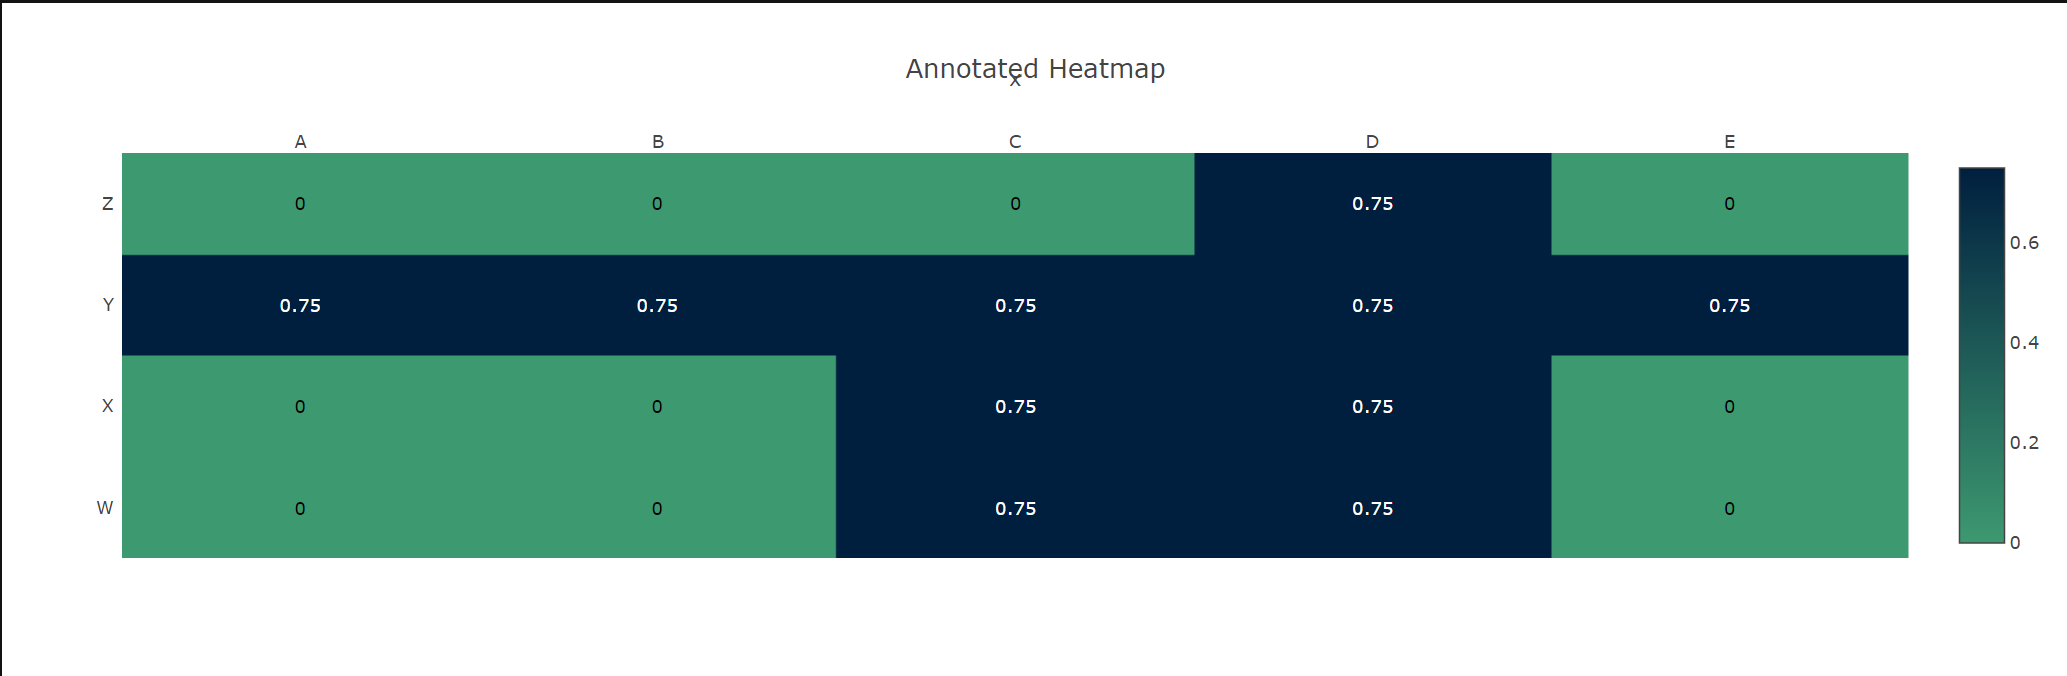
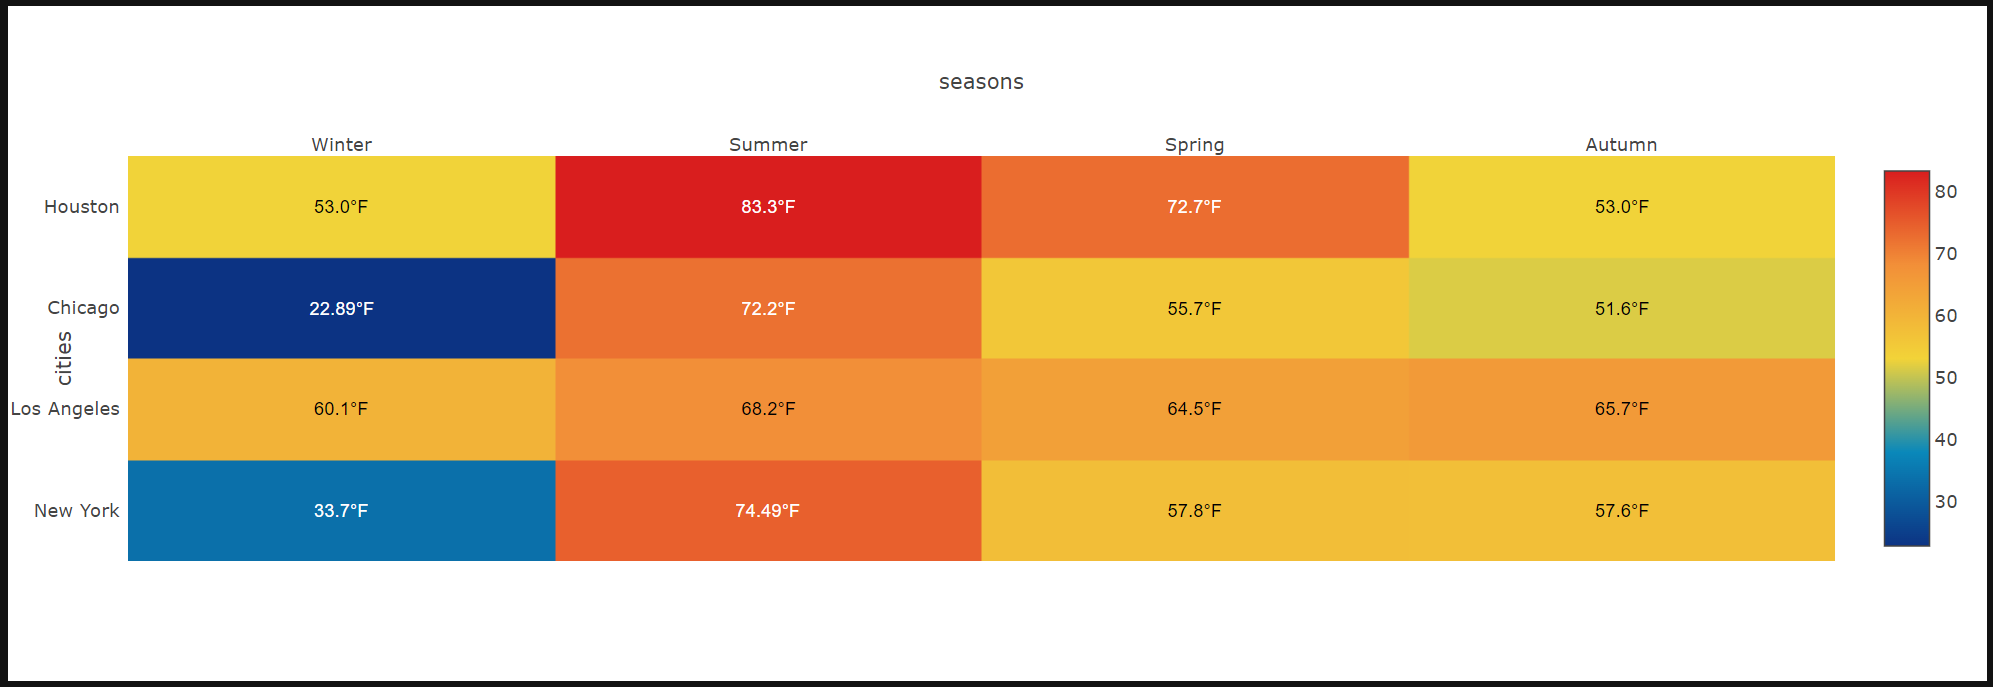
Update examples with definition, add Heatmap with Unequal Block Sizes

diff --git a/docs/manuals/gui/viselements/charts/heatmap.md b/docs/manuals/gui/viselements/charts/heatmap.md
@@ -10,16 +10,18 @@ A heatmap depicts values for a main variable of interest across two axis variabl
 - And more
 
 ### Basic Heatmap
+The chart below shows the colors in accordance with each temperatures
+
 ```py
 from taipy.gui import Gui
 
 data = {
-    "z": [[1, 20, 30], [20, 1, 60], [30, 60, 1]],
-  }
-
+    "temperature": [[1, 20, 30], [20, 1, 60], [30, 60, 1]],
+}
+options = {'colorscale': 'Reds'}
 md = """
 ## Basic Heatmap
-<|{data}|chart|z=z|type=heatmap|>
+<|{data}|chart|z=temperature|type=heatmap|options={options}|>
 """
 
 Gui(md).run()
@@ -27,13 +29,14 @@ Gui(md).run()
 ![Basic Heatmap](heatmap_basic.png)
 
 ### Heatmap with Categorical Axis Labels
+In the following example, we have an array which defines the data (harvest by different farmers in tons/year) to color code. We then also need two lists of names of farmers and vegetables cultivated by them.
 ```py
 from taipy.gui import Gui
 import pandas as pd
 
 data = [
     pd.DataFrame({
-        'z': [
+        'harvest': [
             [0.8, 2.4, 2.5, 3.9, 0.0, 4.0, 0.0],
             [2.4, 0.0, 4.0, 1.0, 2.7, 0.0, 0.0],
             [1.1, 2.4, 0.8, 4.3, 1.9, 4.4, 0.0],
@@ -42,30 +45,28 @@ data = [
             [1.3, 1.2, 0.0, 0.0, 0.0, 3.2, 5.1],
             [0.1, 2.0, 0.0, 1.4, 0.0, 1.9, 6.3]
         ],
-        'y': ["cucumber",
-              "tomato",
-              "lettuce",
-              "asparagus",
-              "potato",
-              "wheat",
-              "barley"]
+        'vegetables': ["cucumber",
+                       "tomato",
+                       "lettuce",
+                       "asparagus",
+                       "potato",
+                       "wheat",
+                       "barley"]
     }),
     pd.DataFrame({
-        'x': ["Farmer Joe",
-              "Upland Bros.",
-              "Smith Gardening",
-              "Agrifun",
-              "Organiculture",
-              "BioGoods Ltd.",
-              "Cornylee Corp."],
+        'farmers': ["Farmer Joe",
+                    "Upland Bros.",
+                    "Smith Gardening",
+                    "Agrifun",
+                    "Organiculture",
+                    "BioGoods Ltd.",
+                    "Cornylee Corp."],
     })
 ]
-
-options = {'colorscale': 'Electric'}
-
+options = {'colorscale': 'Rainbow'}
 md = """
 ## Heatmap with Categorical Axis Labels
-<|{data}|chart|type=heatmap|z=0/z|x=1/x|y=0/y|options={options}|>
+<|{data}|chart|type=heatmap|z=0/harvest|x=1/farmers|y=0/vegetables|options={options}|>
 """
 
 Gui(md).run()
@@ -73,41 +74,35 @@ Gui(md).run()
 ![Heatmap with Categorical Axis Labels](heatmap_axis_labels.png)
 
 ### Annotated Heatmap
+In this chart, we have average temperature (°F) in seasons of top 4 US cities
 ```py
 from taipy.gui import Gui
 import pandas as pd
 
+seasons = ['Winter', 'Summer', 'Spring', 'Autumn']
 
-xValues = ['A', 'B', 'C', 'D', 'E']
+cities = ['New York', 'Los Angeles', 'Chicago', 'Houston']
 
-yValues = ['W', 'X', 'Y', 'Z']
-
-zValues = [
-    [0.00, 0.00, 0.75, 0.75, 0.00],
-    [0.00, 0.00, 0.75, 0.75, 0.00],
-    [0.75, 0.75, 0.75, 0.75, 0.75],
-    [0.00, 0.00, 0.00, 0.75, 0.00]
-]
-
-colorscaleValue = [
-    [0, '#3D9970'],
-    [1, '#001f3f']
+temperature = [
+    [33.7, 74.49, 57.8, 57.6],
+    [60.1, 68.2, 64.5, 65.7],
+    [22.89, 72.2, 55.7, 51.6],
+    [53.0, 83.3, 72.7, 53.0],
 ]
 
 data = [
     pd.DataFrame({
-        'z': zValues,
-        'y': yValues
+        'temperature': temperature,
+        'cities': cities
     }),
     pd.DataFrame({
-        'x': xValues,
+        'seasons': seasons,
     })
 ]
 
-options = {'colorscale': colorscaleValue}
+options = {'colorscale': 'Portland'}
 
 layout = {
-    'title': 'Annotated Heatmap',
     'annotations': [],
     'xaxis': {
         'ticks': '',
@@ -122,36 +117,107 @@ layout = {
     }
 }
 
-for i in range(len(yValues)):
-  for j in range(len(xValues)):
-    currentValue = zValues[i][j]
-    if (currentValue != 0.0):
+for i in range(len(cities)):
+  for j in range(len(seasons)):
+    currentValue = temperature[i][j]
+    if (currentValue < 40 or currentValue > 70):
         textColor = 'white'
     else:
         textColor = 'black'
     result = {
-      'xref': 'x1',
-      'yref': 'y1',
-      'x': xValues[j],
-      'y': yValues[i],
-      'text': zValues[i][j],
-      'font': {
-        'family': 'Arial',
-        'size': 12,
-        'color': 'rgb(50, 171, 96)'
-      },
-      'showarrow': False,
-      'font': {
-        'color': textColor
-      }
+        'xref': 'x1',
+        'yref': 'y1',
+        'x': seasons[j],
+        'y': cities[i],
+        'text': str(temperature[i][j]) + '°F',
+        'font': {
+            'family': 'Arial',
+            'size': 12,
+            'color': textColor
+        },
+        'showarrow': False
     }
     layout['annotations'].append(result)
-  
+
 md = """
 ## Annotated Heatmap
-<|{data}|chart|type=heatmap|z=0/z|x=1/x|y=0/y|options={options}|layout={layout}|>
+<|{data}|chart|type=heatmap|z=0/temperature|x=1/seasons|y=0/cities|options={options}|layout={layout}|>
 """
 
 Gui(md).run()
 ```
 ![Annotated Heatmap](heatmap_annotated.png)
+
+### Heatmap with Unequal Block Sizes
+
+```py
+from taipy.gui import Gui
+import numpy as np
+import pandas as pd
+
+# Data for the heatmap
+phi = (1 + np.sqrt(5)) / 2.  # golden ratio
+xe = [0, 1, 1 + (1 / (phi**4)), 1 + (1 / (phi**3)), phi]
+ye = [0, 1 / (phi**3), 1 / phi**3 + 1 / phi**4, 1 / (phi**2), 1]
+
+z = [
+        [13, 3, 3, 5 ],
+        [13, 2, 1, 5],
+        [13, 10, 11, 12],
+        [13, 8, 8, 8]
+     ]
+
+# Data for the spiral
+def spiral(th):
+    a = 1.120529
+    b = 0.306349
+    r = a * np.exp(-b * th)
+    return (r * np.cos(th), r * np.sin(th))
+
+theta = np.linspace(-np.pi / 13, 4 * np.pi, 1000)  # angle
+(x, y) = spiral(theta)
+
+data = [
+    pd.DataFrame({
+        'zHeatmap': z,
+    }),
+    pd.DataFrame({
+        'xHeatmap': np.sort(xe),
+        'yHeatmap': np.sort(ye)
+    }),
+    pd.DataFrame({
+        'xTrace': -x + x[0],
+        'yTrace': y - y[0],
+    })
+]
+
+axisTemplate = {
+    'range': [0, 1.6],
+    'autorange': False,
+    'showgrid': False,
+    'zeroline': False,
+    'linecolor': 'black',
+    'showticklabels': False,
+    'ticks': ''
+}
+
+layout = {
+    'title': 'Heatmap with Unequal Block Sizes',
+    'xaxis': axisTemplate,
+    'yaxis': axisTemplate,
+    'showlegend': False,
+    'with': 700,
+    'height': 700,
+    'autosize': False
+}
+
+# Everything with index [1] is for heatmap
+# Everything with index [2] is for scatter
+md = """
+## Annotated Heatmap
+<|{data}|chart|type[1]=heatmap|z[1]=0/zHeatmap|x[1]=1/xHeatmap|y[1]=1/yHeatmap|layout={layout}|type[2]=scatter|x[2]=2/xTrace|y[2]=2/yTrace|>
+"""
+
+Gui(md).run()
+```
+![Heatmap with Unequal Block Sizes](heatmap_unequal_block_sizes.png)
